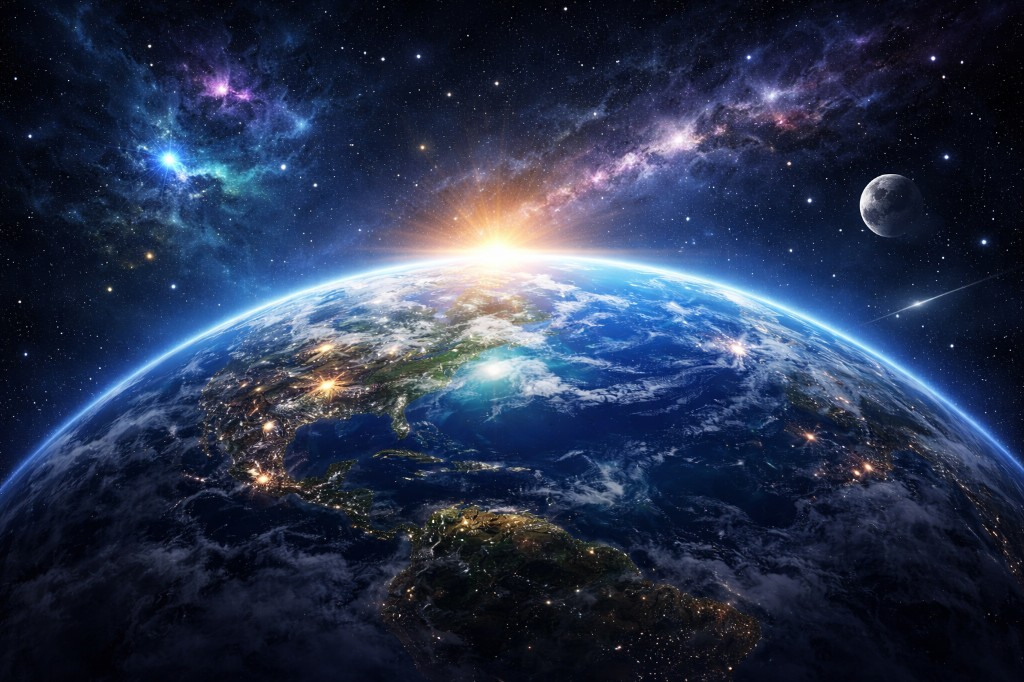
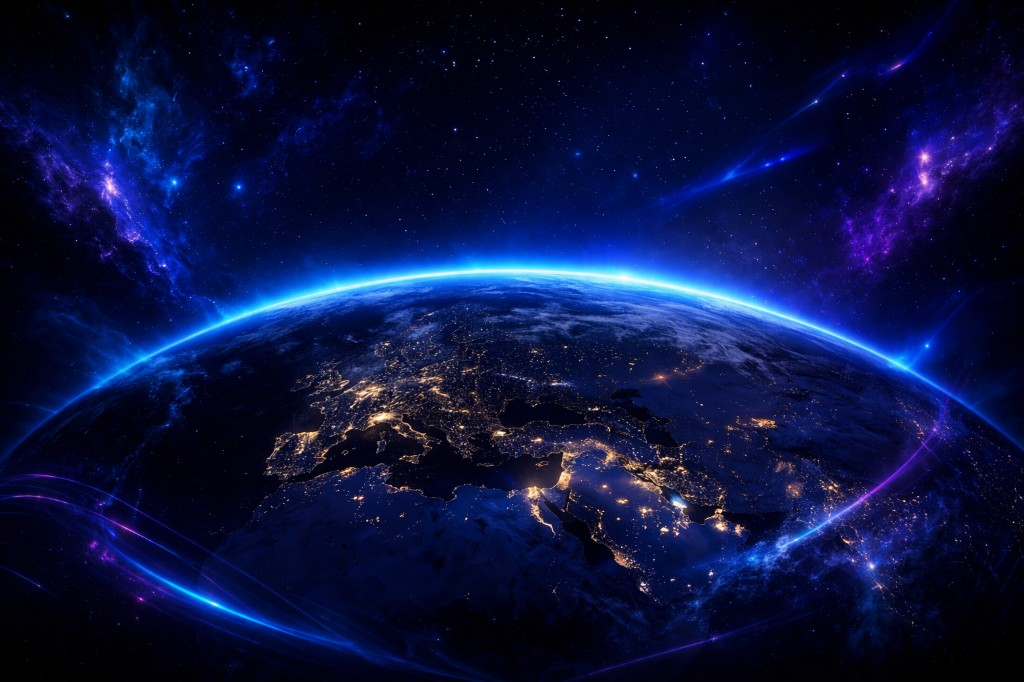
HopeKids: nowe tło — Ziemia nocą, neonowy horyzont (object-top).
Made-with: Cursor

diff --git a/src/HopeKidsLandingPage.jsx b/src/HopeKidsLandingPage.jsx
@@ -362,11 +362,11 @@ export default function HopeKidsLandingPage() {
 
   return (
     <>
-      <div className="pointer-events-none fixed inset-0 z-0 bg-[#030712]" aria-hidden="true">
+      <div className="pointer-events-none fixed inset-0 z-0 bg-[#010214]" aria-hidden="true">
         <img
           src={PAGE_BACKGROUND_EARTH_SRC}
           alt=""
-          className="h-full w-full object-cover object-[50%_55%]"
+          className="h-full w-full object-cover object-top"
           loading="eager"
           decoding="async"
         />
